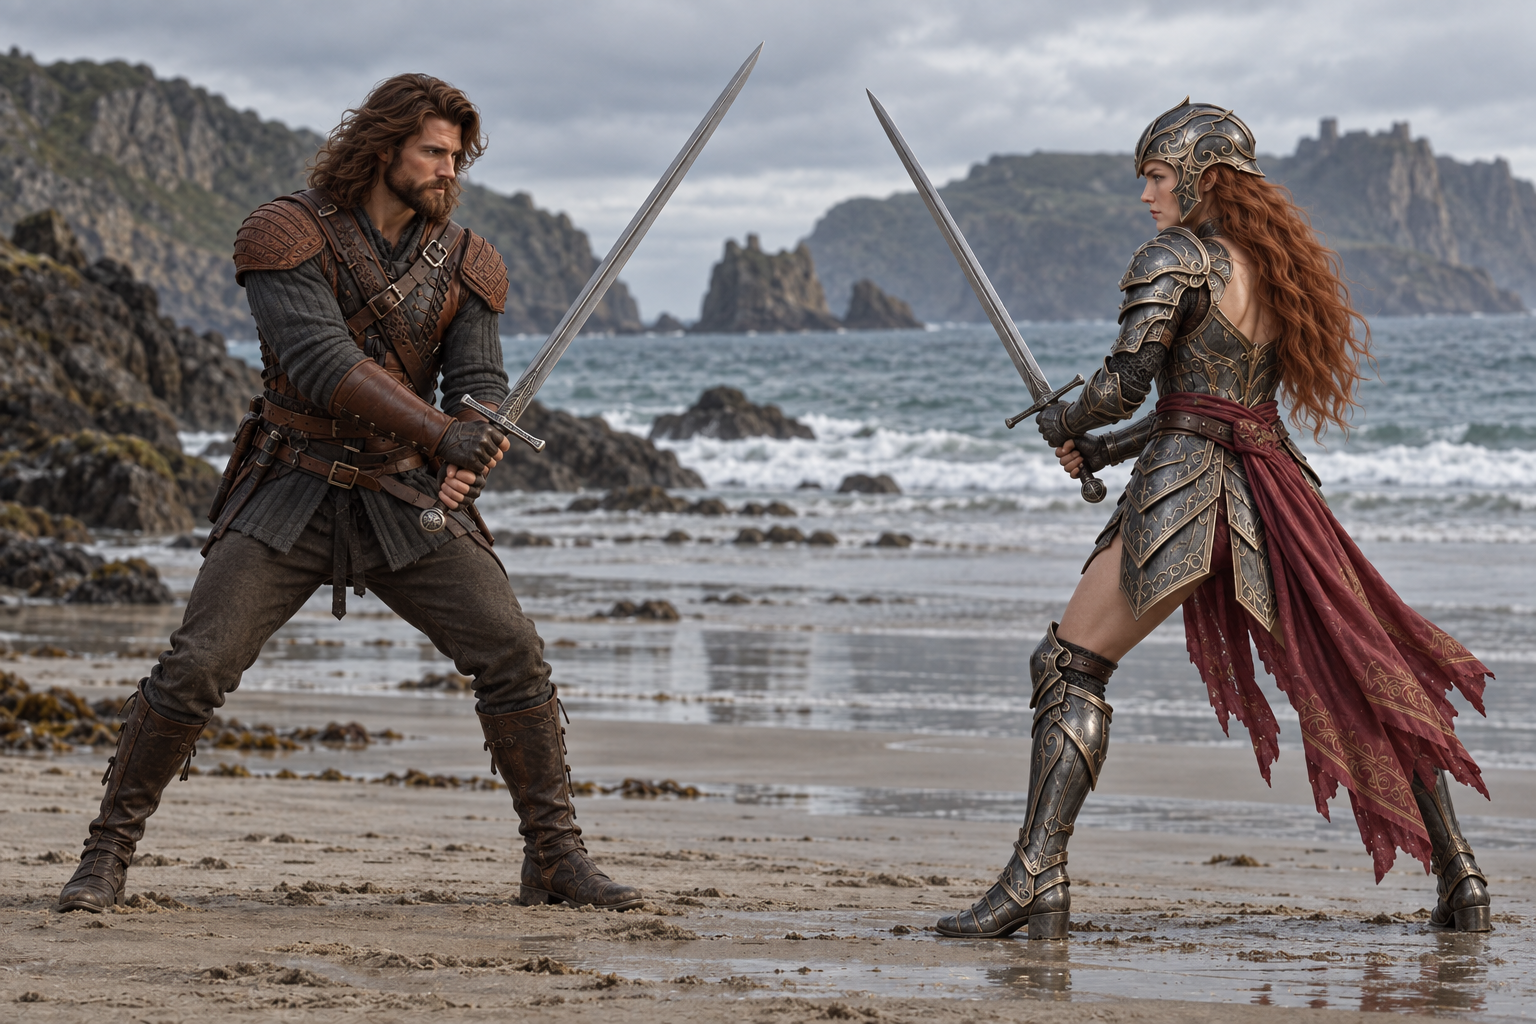
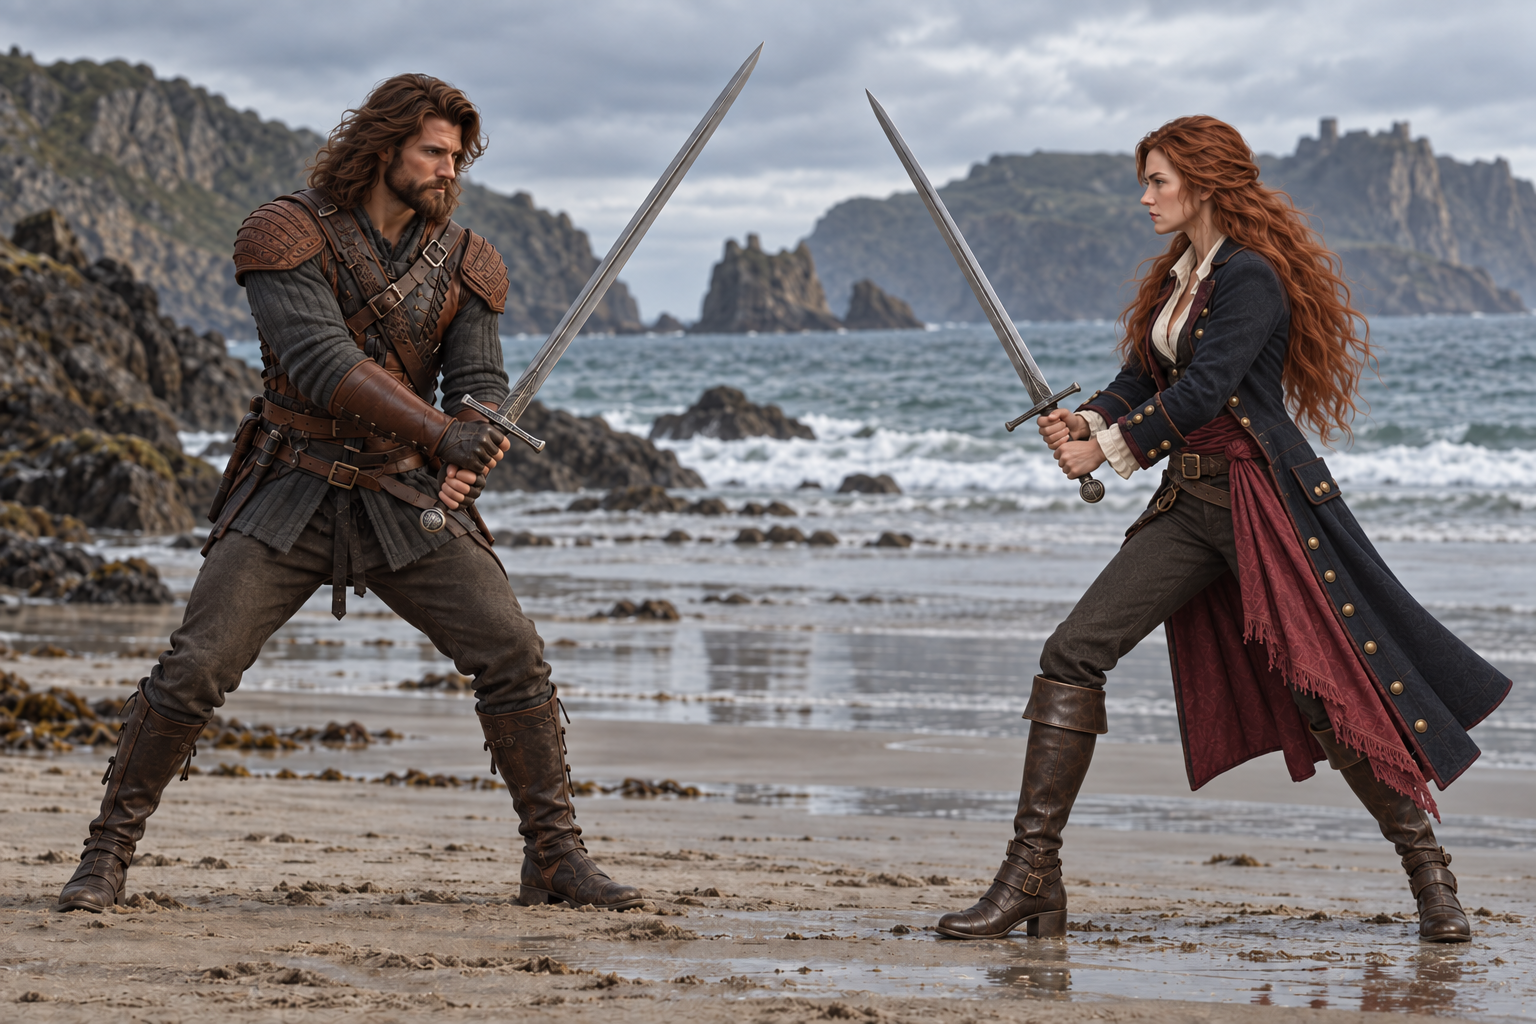
Corregeix Freia com a capitana pirata al relat i al duel

diff --git a/diari/capitol05/acte34/acte34.md b/diari/capitol05/acte34/acte34.md
@@ -58,7 +58,7 @@ Avançàrem així durant mitja hora. Quan encara ens separaven uns tres-cents me
 
 ![El grup arriba a la platja i veu un gran navili de casc i veles blanques mar endins.]({{ '/diari/capitol05/acte34/acte-xxxiv-arribada-platja.png' | relative_url }})
 
-La Freia desembarcà amb els qui venien a rebre els ferits. Era alta, pèl-roja, d’entre trenta i quaranta anys. Les faccions suaus i la bellesa del rostre contrastaven amb la fermesa amb què trepitjà la sorra. Duia una armadura treballada, oberta al pit, amb una faldilla curta de plaques i botes fins als genolls; de la cintura li penjaven uns faldons vermells. Escoltà els seus homes i després rebé la Helen, que s’avançà a presentar-se.
+La Freia desembarcà amb els qui venien a rebre els ferits. Era alta, pèl-roja, d’entre trenta i quaranta anys. Les faccions suaus i la bellesa del rostre contrastaven amb la fermesa amb què trepitjà la sorra. Duia un abric llarg de capitana sobre una camisa oberta, una faixa vermella a la cintura i botes altes. Escoltà els seus homes i després rebé la Helen, que s’avançà a presentar-se.
 
 —Marxem —digué—. No hi ha lloc per a vosaltres al vaixell.
 
